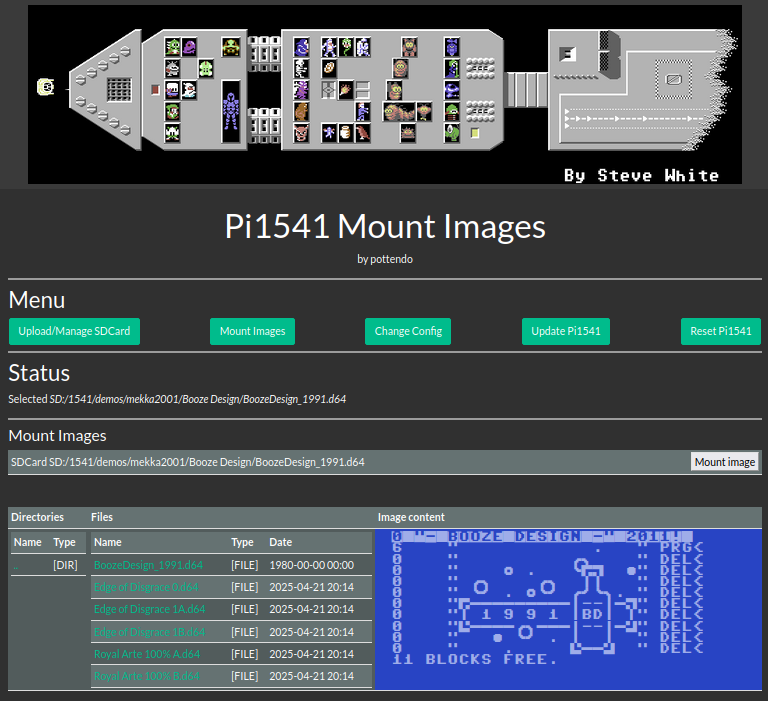
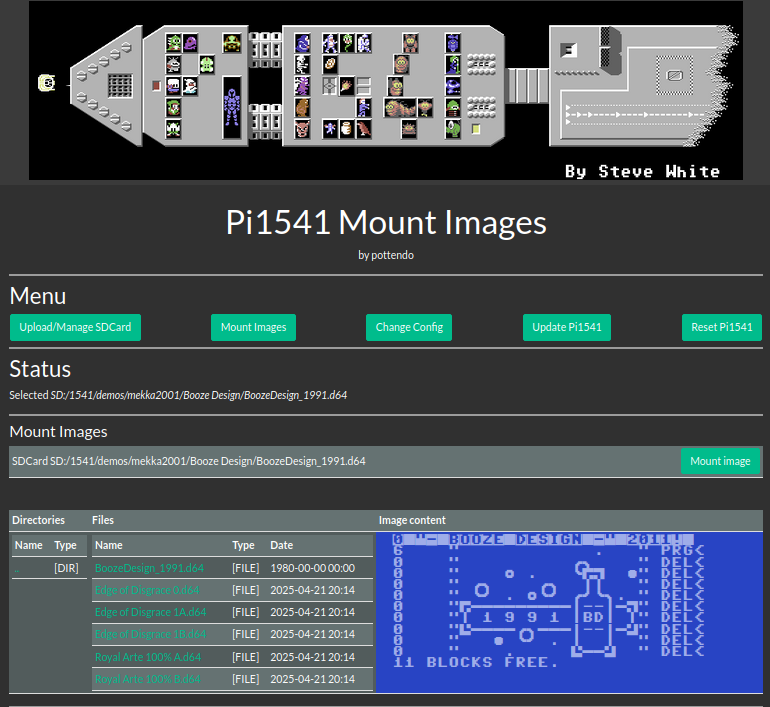
Cleanup

diff --git a/src/webcontent/mount-imgs.html b/src/webcontent/mount-imgs.html
@@ -80,7 +80,7 @@
 							<tr valign="center"><td>SDCard %s</td>
 								<td style="text-align:right;">
 									<a href="mount-imgs.html?[MOUNT]&%s">
-										<button type="button">Mount image</button>	
+										<button type="button" class = "btn btn-success">Mount image</button>	
 									</a>
 								</td>
 							</tr>
